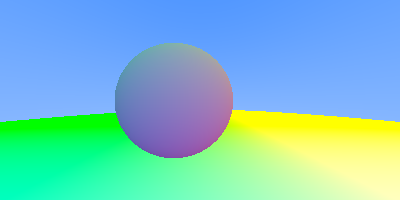
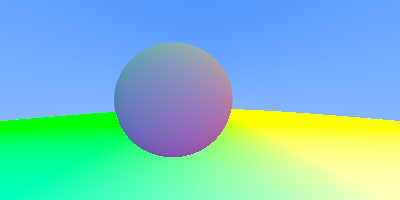
add camera and antialiasing

diff --git a/src/main.rs b/src/main.rs
@@ -4,31 +4,37 @@
 
 use glam::Vec3;
 use image::{ImageBuffer, Rgb};
-use rt_in_1_weekend::{color, utils, List, Ray, Sphere, Surface};
+use rand::Rng;
+use rt_in_1_weekend::{color, utils, Camera, List, Sphere, Surface};
 use std::path::Path;
 
 const DIM: u32 = 200;
 
 fn main() {
-    let (w, h) = (DIM as f32 * 2.0, DIM as f32);
+    let (w, h, ns) = (DIM as f32 * 2.0, DIM as f32, 100);
     let mut buf = ImageBuffer::new(w as u32, h as u32);
 
-    // Note: in the book Peter assumes that y is going up, but
-    // image crate has y going down, and honestly I think its more intuitive
-    let (lower_left, horiz, vert, origin) = (
-        Vec3::new(-2.0, 1.0, -1.0),
-        Vec3::new(4.0, 0.0, 0.0),
-        Vec3::new(0.0, -2.0, 0.0),
-        Vec3::ZERO,
-    );
     let world = List::new(vec![
         Sphere::new(Vec3::new(-0.2, 0.0, -1.0), 0.5),
         Sphere::new(Vec3::new(0.0, -100.5, -1.0), 100.0),
     ]);
+    let camera = Camera::default();
     for (x, y, pixel) in buf.enumerate_pixels_mut() {
-        let (u, v) = ((x as f32 / w), (y as f32 / h));
-        let ray = Ray::new(origin, lower_left + u * horiz + v * vert);
-        let col = color(&ray, &world);
+        let mut col = Vec3::ZERO;
+        let (x, y) = (x as f32, y as f32);
+
+        for _ in 0..ns {
+            // This two are pixel's relative coordinates on the screen
+            let mut rng = rand::thread_rng();
+            let rand = rng.gen_range(0.0..1.0);
+            let (u, v) = (((x + rand) / w), ((y + rand) / h));
+            let ray = camera.get_ray(u, v);
+            // let p = ray.point_at(2.0);
+            col += color(&ray, &world);
+        }
+
+        col /= ns as f32;
+
         *pixel = Rgb([
             (col[0] * 255.99) as u8,
             (col[1] * 255.99) as u8,

diff --git a/src/lib.rs b/src/lib.rs
@@ -147,3 +147,33 @@ pub fn color<T: Surface>(ray: &Ray, world: &List<T>) -> Vec3 {
         (1.0 - t) * Vec3::ONE + t * Vec3::new(0.5, 0.7, 1.0)
     }
 }
+
+pub struct Camera {
+    pub lower_left: Vec3,
+    pub horiz: Vec3,
+    pub vert: Vec3,
+    pub origin: Vec3,
+}
+
+impl Camera {
+    pub fn get_ray(&self, u: f32, v: f32) -> Ray {
+        Ray::new(
+            self.origin,
+            self.lower_left + u * self.horiz + v * self.vert - self.origin,
+        )
+    }
+}
+
+impl Default for Camera {
+    fn default() -> Self {
+        // Note: in the book Peter assumes that y is going up, but
+        // image crate pixel enumeration assumes has y going down,
+        // and honestly I think it's much more intuitive
+        Self {
+            lower_left: Vec3::new(-2.0, 1.0, -1.0),
+            horiz: Vec3::new(4.0, 0.0, 0.0),
+            vert: Vec3::new(0.0, -2.0, 0.0),
+            origin: Vec3::ZERO,
+        }
+    }
+}
